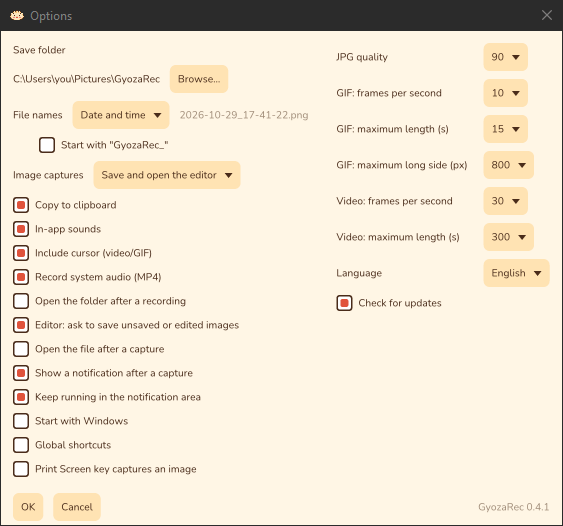
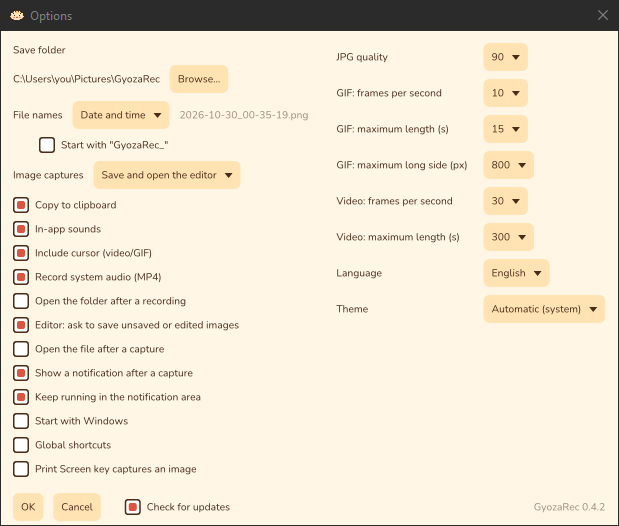
docs: 0.4.2 changelog, Options screenshot and version

diff --git a/CHANGELOG.md b/CHANGELOG.md
@@ -2,7 +2,7 @@
 
 All notable changes to GyozaRec are listed here. The format follows [Keep a Changelog](https://keepachangelog.com/en/1.1.0/), and versions follow [Semantic Versioning](https://semver.org/).
 
-## [Unreleased]
+## [0.4.2] - 2026-10-30
 
 ### Added
 - A dark theme: "Theme" in Options is Automatic (follows Windows' app mode, the default), Light or Dark; title bars follow it too.
@@ -82,6 +82,7 @@ All notable changes to GyozaRec are listed here. The format follows [Keep a Chan
 - Interface in nine languages, detected from Windows.
 - Per-user MSI installer and portable zip.
 
+[0.4.2]: https://github.com/martindavinci/GyozaRec/compare/v0.4.1...v0.4.2
 [0.4.1]: https://github.com/martindavinci/GyozaRec/compare/v0.4.0...v0.4.1
 [0.4.0]: https://github.com/martindavinci/GyozaRec/compare/v0.3.0...v0.4.0
 [0.3.0]: https://github.com/martindavinci/GyozaRec/compare/v0.2.0...v0.3.0
